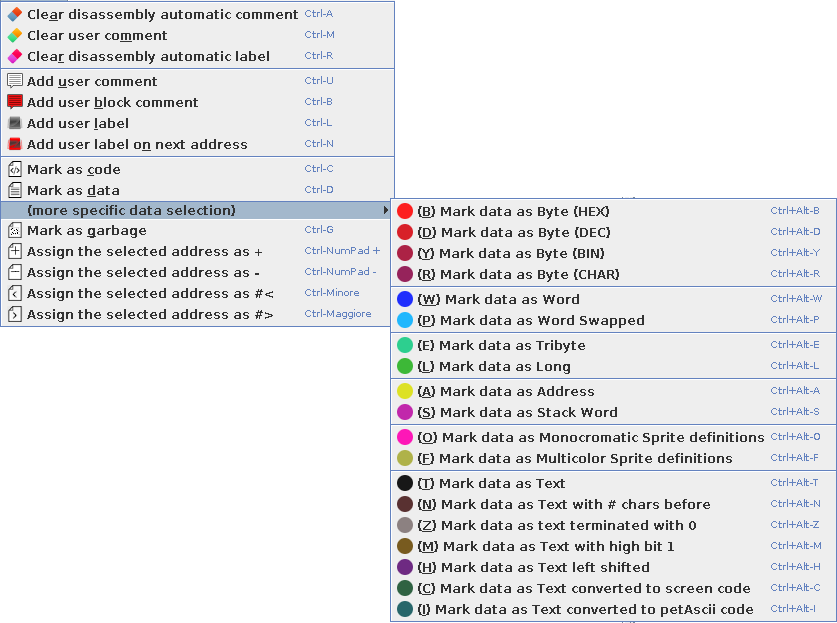
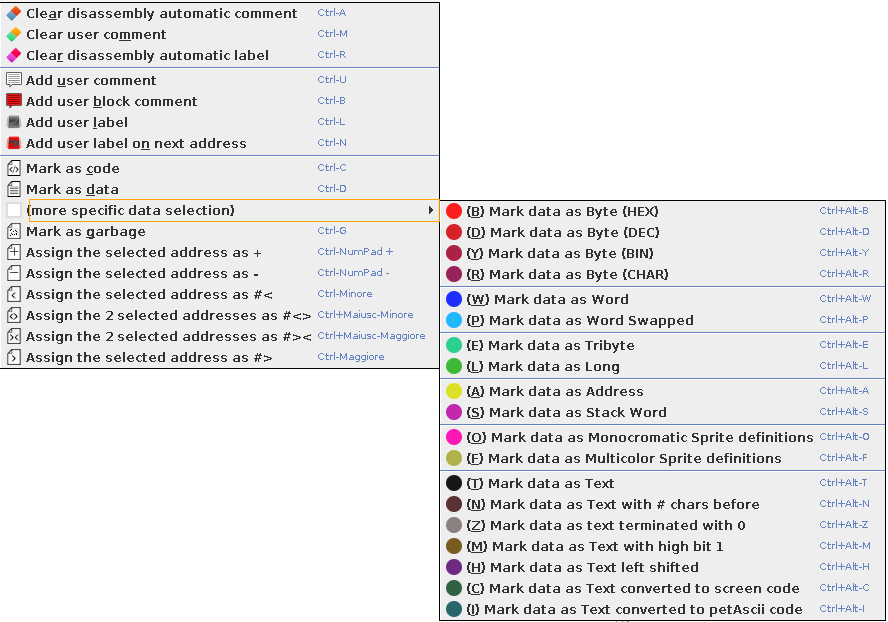
Add #<> and #><

Changed region(s): [[0.0, 0.0, 1.0, 1.0]]

diff --git a/src/sw_emulator/swing/help/memory.html b/src/sw_emulator/swing/help/memory.html
@@ -174,6 +174,11 @@
   <p> If you press Ok without select a location and there was already a mapped one, the program will ask you if it has to remove the association.<br>
    The RE column will show an < sign in that location and the tool tip will show the value of it</p>
    
+   <h2>Assign the 2 selected addresss as #&lt; #&gt;</h2>
+   <p>This declare the selected couple of bytes as #&lt; #&gt; of the address formed by his low/high value</p>
+  
+   <h2>Assign the 2 selected addresss as #&gt; #&lt;</h2>
+   <p>This declare the selected couple of bytes as #&gt; #&lt; of the address formed by his high/low value</p>
     
    <h2>Assign the selected address as #&gt; </h2>
    <p>This function is the analoge of the previous but operates with the high part of an address. </p>

diff --git a/src/sw_emulator/swing/JDisassemblerFrame.java b/src/sw_emulator/swing/JDisassemblerFrame.java
@@ -326,6 +326,8 @@ public class JDisassemblerFrame extends javax.swing.JFrame implements userAction
         jButtonMarkPlus = new javax.swing.JButton();
         jButtonMarkMinus = new javax.swing.JButton();
         jButtonMarkLow = new javax.swing.JButton();
+        jButtonMarkLowHigh = new javax.swing.JButton();
+        jButtonMarkHighLow = new javax.swing.JButton();
         jButtonMarkMax = new javax.swing.JButton();
         jSeparatorButton3 = new javax.swing.JToolBar.Separator();
         jButtonConfigure = new javax.swing.JButton();
@@ -476,6 +478,8 @@ public class JDisassemblerFrame extends javax.swing.JFrame implements userAction
         jMenuItemPlus = new javax.swing.JMenuItem();
         jMenuItemMinus = new javax.swing.JMenuItem();
         jMenuItemMemLow = new javax.swing.JMenuItem();
+        jMenuItemMemLowHigh = new javax.swing.JMenuItem();
+        jMenuItemMemHighLow = new javax.swing.JMenuItem();
         jMenuItemMemHigh = new javax.swing.JMenuItem();
         jMenuOption = new javax.swing.JMenu();
         jMenuItemConfigure = new javax.swing.JMenuItem();
@@ -965,6 +969,30 @@ public class JDisassemblerFrame extends javax.swing.JFrame implements userAction
             }
         });
         jToolBar.add(jButtonMarkLow);
+
+        jButtonMarkLowHigh.setIcon(new javax.swing.ImageIcon(getClass().getResource("/sw_emulator/swing/icons/minmax.png"))); // NOI18N
+        jButtonMarkLowHigh.setToolTipText("Assign the 2 selected addresses as #<>");
+        jButtonMarkLowHigh.setFocusable(false);
+        jButtonMarkLowHigh.setHorizontalTextPosition(javax.swing.SwingConstants.CENTER);
+        jButtonMarkLowHigh.setVerticalTextPosition(javax.swing.SwingConstants.BOTTOM);
+        jButtonMarkLowHigh.addActionListener(new java.awt.event.ActionListener() {
+            public void actionPerformed(java.awt.event.ActionEvent evt) {
+                jButtonMarkLowHighActionPerformed(evt);
+            }
+        });
+        jToolBar.add(jButtonMarkLowHigh);
+
+        jButtonMarkHighLow.setIcon(new javax.swing.ImageIcon(getClass().getResource("/sw_emulator/swing/icons/maxmin.png"))); // NOI18N
+        jButtonMarkHighLow.setToolTipText("Assign the 2 selected addresses as #<>");
+        jButtonMarkHighLow.setFocusable(false);
+        jButtonMarkHighLow.setHorizontalTextPosition(javax.swing.SwingConstants.CENTER);
+        jButtonMarkHighLow.setVerticalTextPosition(javax.swing.SwingConstants.BOTTOM);
+        jButtonMarkHighLow.addActionListener(new java.awt.event.ActionListener() {
+            public void actionPerformed(java.awt.event.ActionEvent evt) {
+                jButtonMarkHighLowActionPerformed(evt);
+            }
+        });
+        jToolBar.add(jButtonMarkHighLow);
 
         jButtonMarkMax.setIcon(new javax.swing.ImageIcon(getClass().getResource("/sw_emulator/swing/icons/max.png"))); // NOI18N
         jButtonMarkMax.setToolTipText("Assign the selected address as #>");
@@ -1724,6 +1752,27 @@ public class JDisassemblerFrame extends javax.swing.JFrame implements userAction
     });
     jMenuMemory.add(jMenuItemMemLow);
 
+    jMenuItemMemLowHigh.setAccelerator(javax.swing.KeyStroke.getKeyStroke(java.awt.event.KeyEvent.VK_LESS, java.awt.event.InputEvent.SHIFT_DOWN_MASK | java.awt.event.InputEvent.CTRL_DOWN_MASK));
+    jMenuItemMemLowHigh.setIcon(new javax.swing.ImageIcon(getClass().getResource("/sw_emulator/swing/icons/mini/minmax.png"))); // NOI18N
+    jMenuItemMemLowHigh.setText("Assign the 2 selected addresses as #<>");
+    jMenuItemMemLowHigh.setToolTipText("");
+    jMenuItemMemLowHigh.addActionListener(new java.awt.event.ActionListener() {
+        public void actionPerformed(java.awt.event.ActionEvent evt) {
+            jMenuItemMemLowHighActionPerformed(evt);
+        }
+    });
+    jMenuMemory.add(jMenuItemMemLowHigh);
+
+    jMenuItemMemHighLow.setAccelerator(javax.swing.KeyStroke.getKeyStroke(java.awt.event.KeyEvent.VK_GREATER, java.awt.event.InputEvent.SHIFT_DOWN_MASK | java.awt.event.InputEvent.CTRL_DOWN_MASK));
+    jMenuItemMemHighLow.setIcon(new javax.swing.ImageIcon(getClass().getResource("/sw_emulator/swing/icons/mini/maxmin.png"))); // NOI18N
+    jMenuItemMemHighLow.setText("Assign the 2 selected addresses as #><");
+    jMenuItemMemHighLow.addActionListener(new java.awt.event.ActionListener() {
+        public void actionPerformed(java.awt.event.ActionEvent evt) {
+            jMenuItemMemHighLowActionPerformed(evt);
+        }
+    });
+    jMenuMemory.add(jMenuItemMemHighLow);
+
     jMenuItemMemHigh.setAccelerator(javax.swing.KeyStroke.getKeyStroke(java.awt.event.KeyEvent.VK_GREATER, java.awt.event.InputEvent.CTRL_DOWN_MASK));
     jMenuItemMemHigh.setIcon(new javax.swing.ImageIcon(getClass().getResource("/sw_emulator/swing/icons/mini/max.png"))); // NOI18N
     jMenuItemMemHigh.setText("Assign the selected address as #>");
@@ -1916,7 +1965,7 @@ public class JDisassemblerFrame extends javax.swing.JFrame implements userAction
     getContentPane().setLayout(layout);
     layout.setHorizontalGroup(
         layout.createParallelGroup(javax.swing.GroupLayout.Alignment.LEADING)
-        .addComponent(jToolBar, javax.swing.GroupLayout.DEFAULT_SIZE, javax.swing.GroupLayout.DEFAULT_SIZE, Short.MAX_VALUE)
+        .addComponent(jToolBar, javax.swing.GroupLayout.PREFERRED_SIZE, 1189, Short.MAX_VALUE)
         .addComponent(jSplitPaneExternal)
     );
     layout.setVerticalGroup(
@@ -2520,6 +2569,22 @@ public class JDisassemblerFrame extends javax.swing.JFrame implements userAction
       execute(SOURCE_ASS);
     }//GEN-LAST:event_jMenuItemAssemblyActionPerformed
 
+    private void jButtonMarkLowHighActionPerformed(java.awt.event.ActionEvent evt) {//GEN-FIRST:event_jButtonMarkLowHighActionPerformed
+      execute(MEM_LOWHIGH);
+    }//GEN-LAST:event_jButtonMarkLowHighActionPerformed
+
+    private void jMenuItemMemLowHighActionPerformed(java.awt.event.ActionEvent evt) {//GEN-FIRST:event_jMenuItemMemLowHighActionPerformed
+      execute(MEM_LOWHIGH);
+    }//GEN-LAST:event_jMenuItemMemLowHighActionPerformed
+
+    private void jMenuItemMemHighLowActionPerformed(java.awt.event.ActionEvent evt) {//GEN-FIRST:event_jMenuItemMemHighLowActionPerformed
+      execute(MEM_HIGHLOW);
+    }//GEN-LAST:event_jMenuItemMemHighLowActionPerformed
+
+    private void jButtonMarkHighLowActionPerformed(java.awt.event.ActionEvent evt) {//GEN-FIRST:event_jButtonMarkHighLowActionPerformed
+      execute(MEM_HIGHLOW);
+    }//GEN-LAST:event_jButtonMarkHighLowActionPerformed
+
     /**
      * @param args the command line arguments
      */
@@ -2580,7 +2645,9 @@ public class JDisassemblerFrame extends javax.swing.JFrame implements userAction
     private javax.swing.JButton jButtonMarkCode;
     private javax.swing.JButton jButtonMarkData;
     private javax.swing.JButton jButtonMarkGarbage;
+    private javax.swing.JButton jButtonMarkHighLow;
     private javax.swing.JButton jButtonMarkLow;
+    private javax.swing.JButton jButtonMarkLowHigh;
     private javax.swing.JButton jButtonMarkMax;
     private javax.swing.JButton jButtonMarkMinus;
     private javax.swing.JButton jButtonMarkPlus;
@@ -2629,7 +2696,9 @@ public class JDisassemblerFrame extends javax.swing.JFrame implements userAction
     private javax.swing.JMenuItem jMenuItemMarkData;
     private javax.swing.JMenuItem jMenuItemMarkGarbage;
     private javax.swing.JMenuItem jMenuItemMemHigh;
+    private javax.swing.JMenuItem jMenuItemMemHighLow;
     private javax.swing.JMenuItem jMenuItemMemLow;
+    private javax.swing.JMenuItem jMenuItemMemLowHigh;
     private javax.swing.JMenuItem jMenuItemMinus;
     private javax.swing.JMenuItem jMenuItemNewProject;
     private javax.swing.JMenuItem jMenuItemNumText;
@@ -2883,10 +2952,18 @@ public class JDisassemblerFrame extends javax.swing.JFrame implements userAction
          memLow();  
          if (option.forceCompilation) disassembly();
          break;
+       case MEM_LOWHIGH:
+         memLowHigh();  
+         if (option.forceCompilation) disassembly();
+         break;
+       case MEM_HIGHLOW:
+         memHighLow();  
+         if (option.forceCompilation) disassembly();
+         break;         
        case MEM_HIGH:
          memHigh();  
          if (option.forceCompilation) disassembly();
-         break;
+         break;         
        case MEM_PLUS:
          memPlus();  
          if (option.forceCompilation) disassembly();
@@ -3741,6 +3818,82 @@ public class JDisassemblerFrame extends javax.swing.JFrame implements userAction
     }       
   }
 
+  /**
+   * Assign two references to memory as #< and #>
+   */
+  private void memLowHigh() {
+    int row=jTableMemory.getSelectedRow();
+    if (row<0) {
+      JOptionPane.showMessageDialog(this, "No row selected", "Warning", JOptionPane.WARNING_MESSAGE);  
+      return;
+    }
+    
+    int rows[]=jTableMemory.getSelectedRows();
+    if (rows.length==1) {
+      JOptionPane.showMessageDialog(this, "At least two rows must be selected", "Warning", JOptionPane.WARNING_MESSAGE);  
+      return;
+    }    
+    
+    MemoryDasm low, high;
+    int address;
+    
+    for (int i=0; i<rows.length; i+=2) {
+            
+      if (i==rows.length-1) break;
+      low=project.memory[rows[i]];
+      high=project.memory[rows[i+1]];
+    
+      address=(low.copy & 0xFF) + ((high.copy & 0xFF)<<8);
+    
+      low.related=address;          
+      low.type='<';
+      high.related=address;
+      if (high.type=='+') high.type='^';
+      else high.type='>';     
+    }
+      
+    dataTableModelMemory.fireTableDataChanged();      
+    jTableMemory.setRowSelectionInterval(rows[0], rows[rows.length-1]);        
+  }  
+  
+/**
+   * Assign two references to memory as #> and #<
+   */
+  private void memHighLow() {
+    int row=jTableMemory.getSelectedRow();
+    if (row<0) {
+      JOptionPane.showMessageDialog(this, "No row selected", "Warning", JOptionPane.WARNING_MESSAGE);  
+      return;
+    }
+    
+    int rows[]=jTableMemory.getSelectedRows();
+    if (rows.length==1) {
+      JOptionPane.showMessageDialog(this, "Two rows must be selected", "Warning", JOptionPane.WARNING_MESSAGE);  
+      return;
+    }    
+    
+    MemoryDasm low, high;
+    int address; 
+    
+    for (int i=0; i<rows.length; i+=2) {
+            
+      if (i==rows.length-1) break;
+      low=project.memory[rows[i+1]];
+      high=project.memory[rows[i]];
+    
+      address=(low.copy & 0xFF) + ((high.copy & 0xFF)<<8);
+    
+      low.related=address;          
+      low.type='<';
+      high.related=address;
+      if (high.type=='+') high.type='^';
+      else high.type='>';     
+    }     
+      
+    dataTableModelMemory.fireTableDataChanged();      
+    jTableMemory.setRowSelectionInterval(rows[0], rows[rows.length-1]);        
+  }    
+  
   /**
    * Assign a reference to memory as #>
    */

diff --git a/src/sw_emulator/swing/main/userAction.java b/src/sw_emulator/swing/main/userAction.java
@@ -194,6 +194,12 @@ public interface userAction {
   /** Mark memory of text converted to multicolor sprite data kind */
   public static final int MEM_MARKDATA_F = 56;  
   
+  /** Memory assign #<>  */
+  public static final int MEM_LOWHIGH = 57;
+  
+  /** Memory assign #><  */
+  public static final int MEM_HIGHLOW = 58;  
+  
   /**
    * Execute the passed user action
    * 
